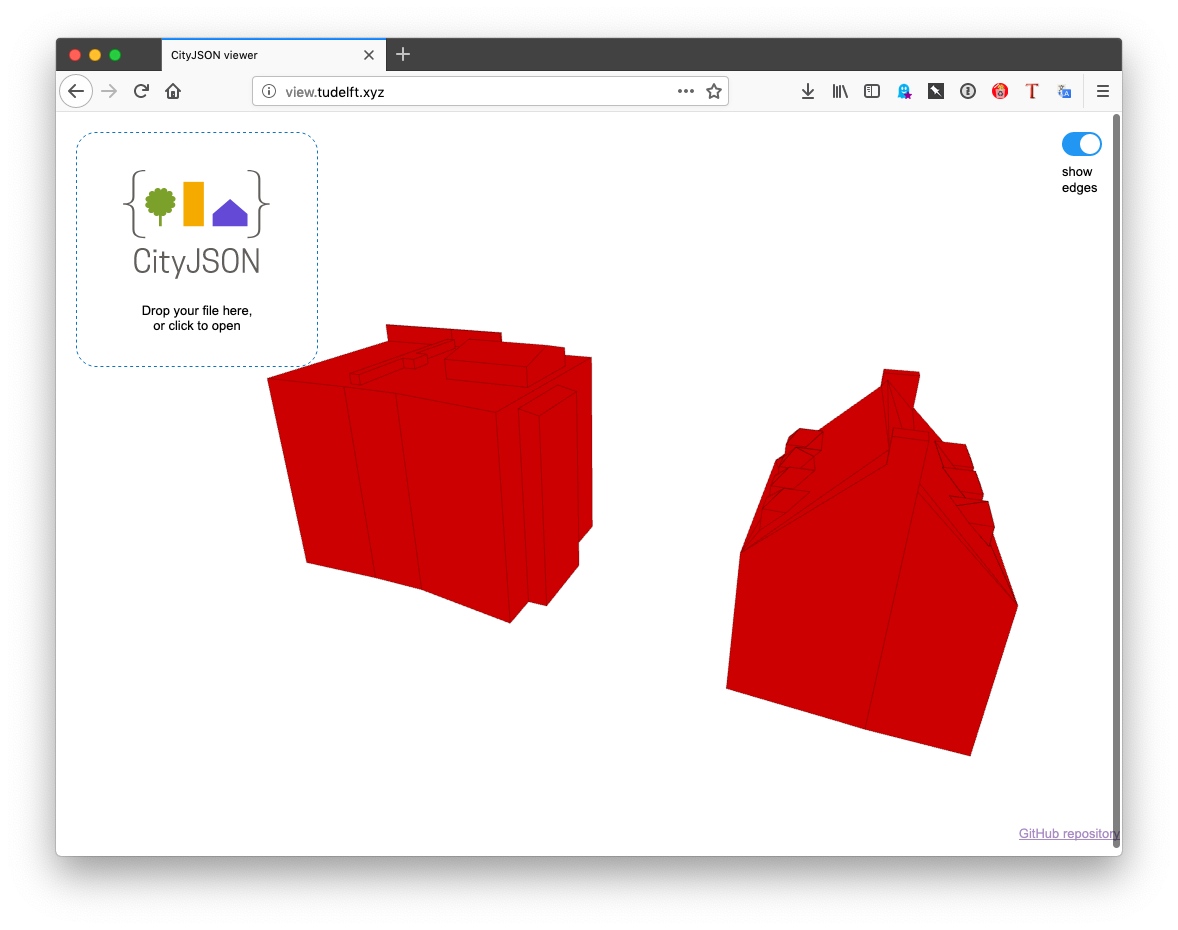
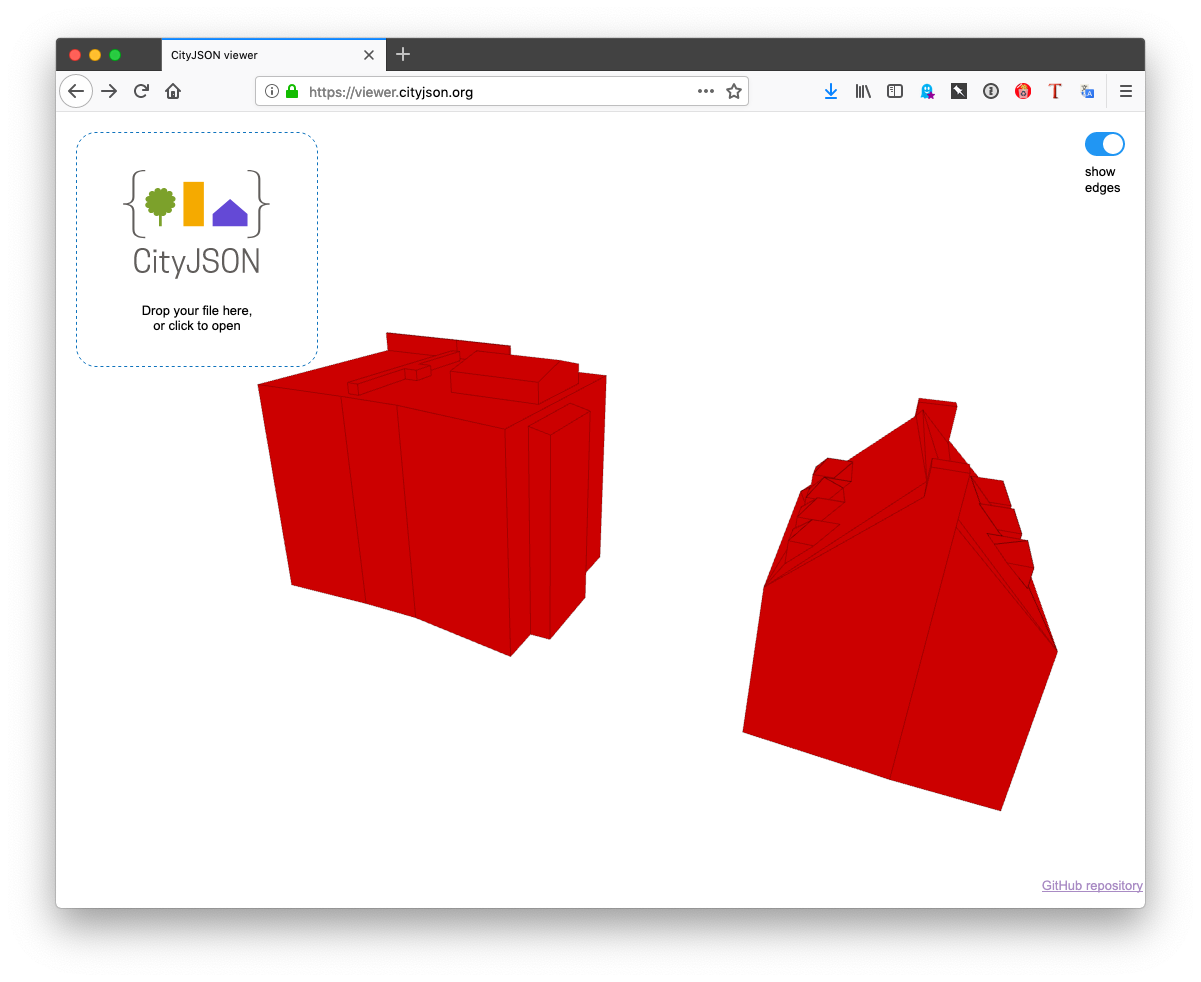
Fix small errors in gs tutorial

diff --git a/tutorials/getting-started.md b/tutorials/getting-started.md
@@ -25,7 +25,7 @@ You can open that file in any text editor to see its structure, and notice that 
 
 ## Visualise the file
 
-Go to the [CityJSON official online viewer](https://view.cityjson.org) and drop the file on the logo, and voilà:
+Go to the [CityJSON official online viewer](https://viewer.cityjson.org) and drop the file on the logo, and voilà:
 
 ![](../files/gs-viewer.png)
 
@@ -100,7 +100,7 @@ $ cjio myfile.json merge '/home/elvis/temp/*.json' save all_merged.json
 
 ## What else?
 
-One important point is ensuring that the files you produce and manipulate are valid, see our [validation tutorial][{{ '/tutorials/validation/' | prepend: site.baseurl }}].
+One important point is ensuring that the files you produce and manipulate are valid, see our [validation tutorial]({{ '/tutorials/validation/' | prepend: site.baseurl }}).
 
 Several datasets can be downloaded from the [datasets page]({{ '/datasets/' | prepend: site.baseurl }}), but more importantly, it is possible to convert any CityGML file, see [our tutorial]({{ '/tutorials/conversion/' | prepend: site.baseurl }}).
 
